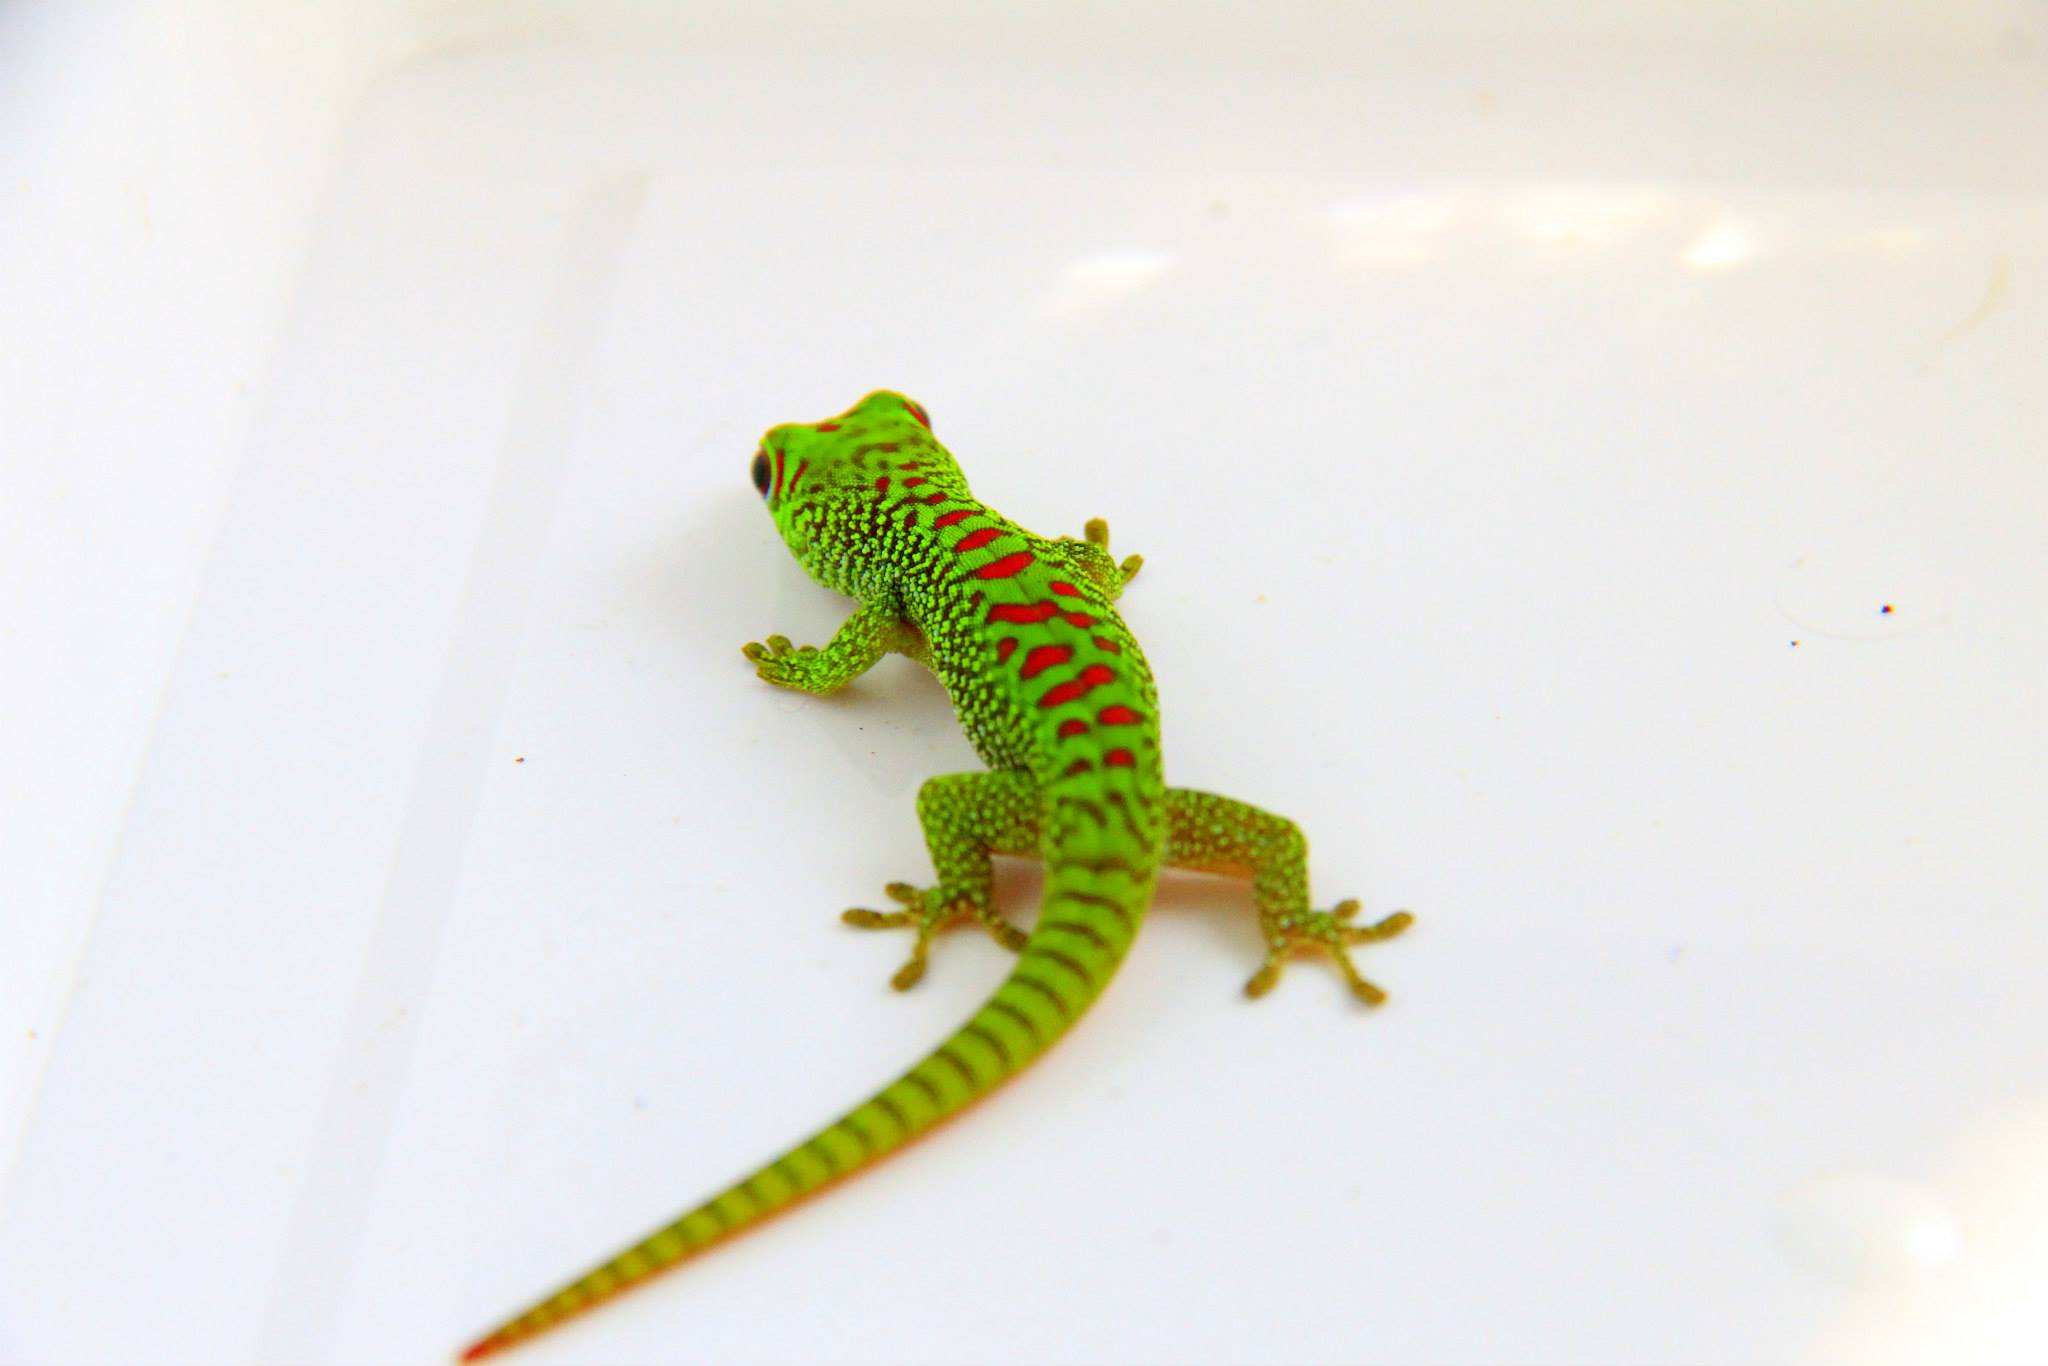
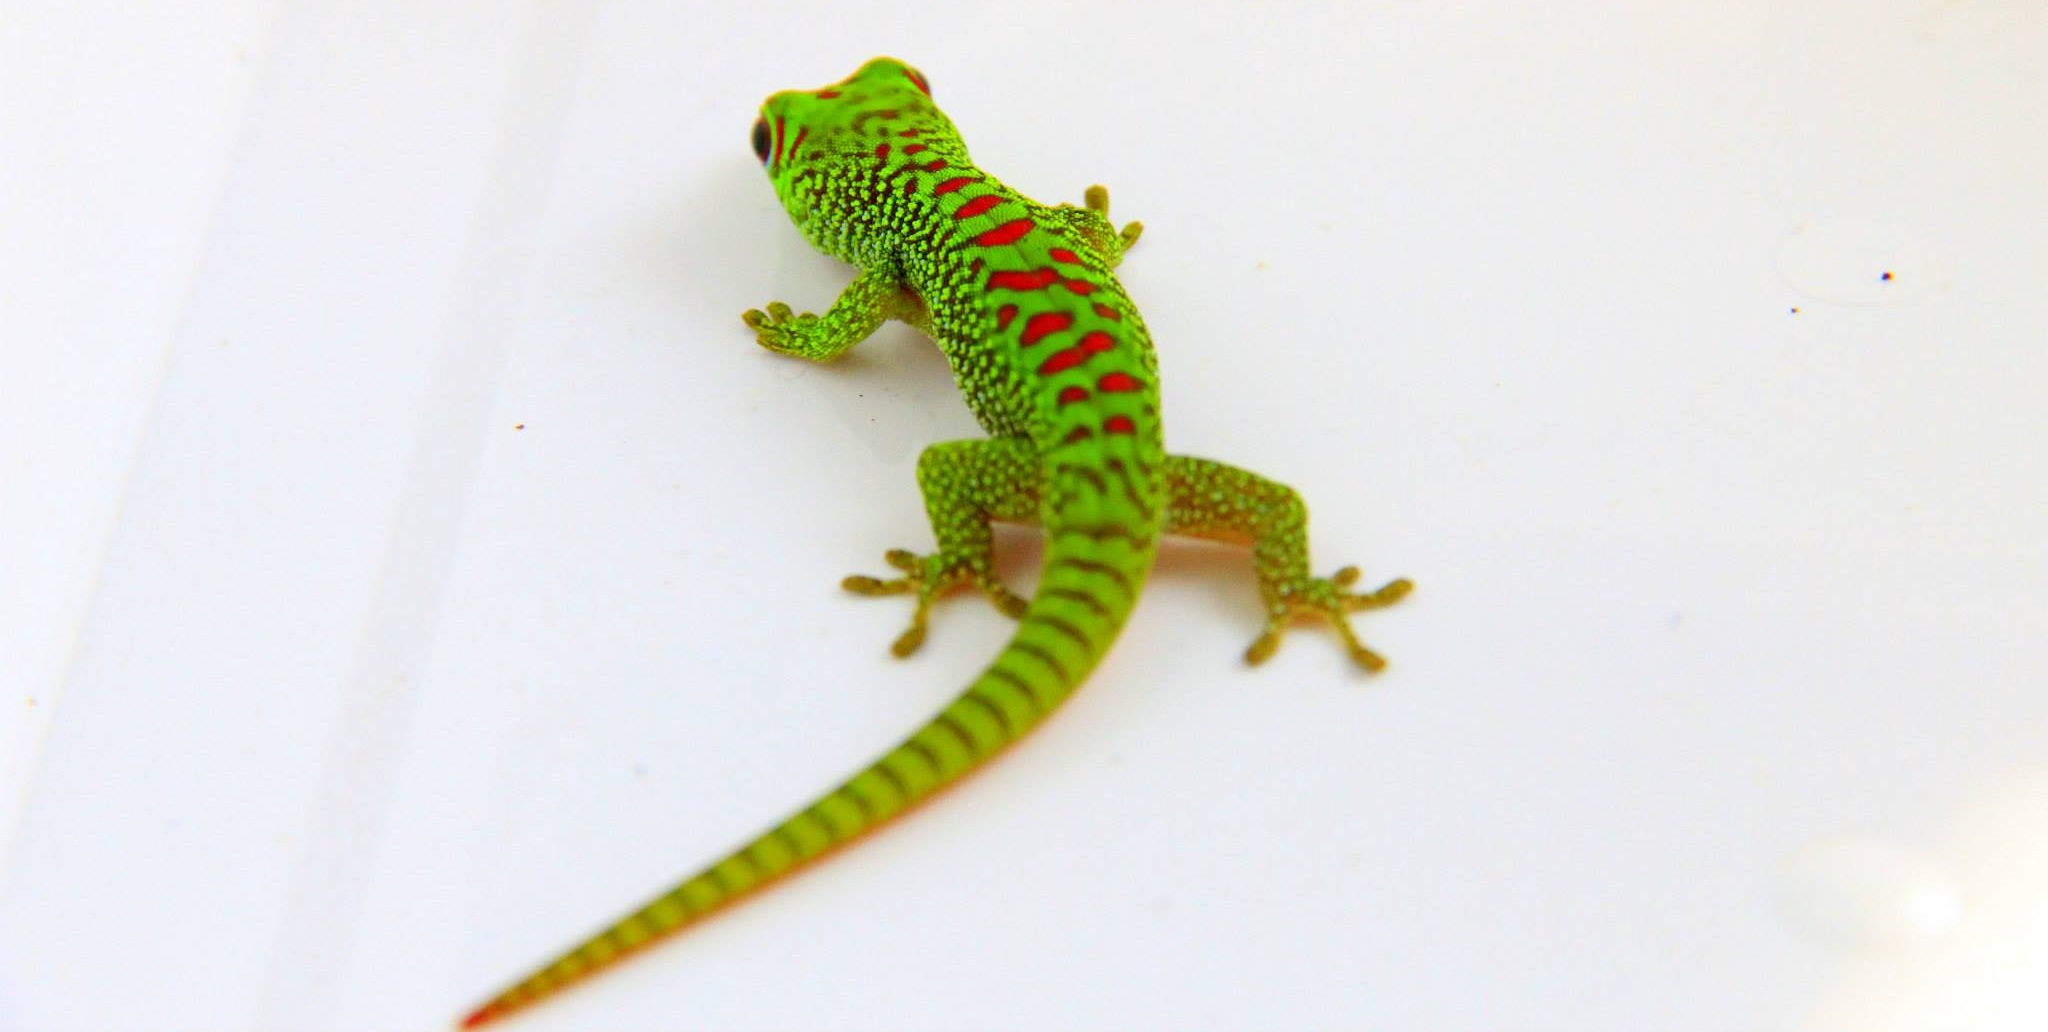
changed header image

diff --git a/css/site.css b/css/site.css
@@ -5,8 +5,8 @@ body > .container
 
 .navigation-container
 {
-	background-image: url("../img/header.jpg") !important;
-    background-repeat: repeat-x;
+	background-image: url("../img/header.jpg");
+	background-size: 100% 100%;
 }
 
 .jumbotron
